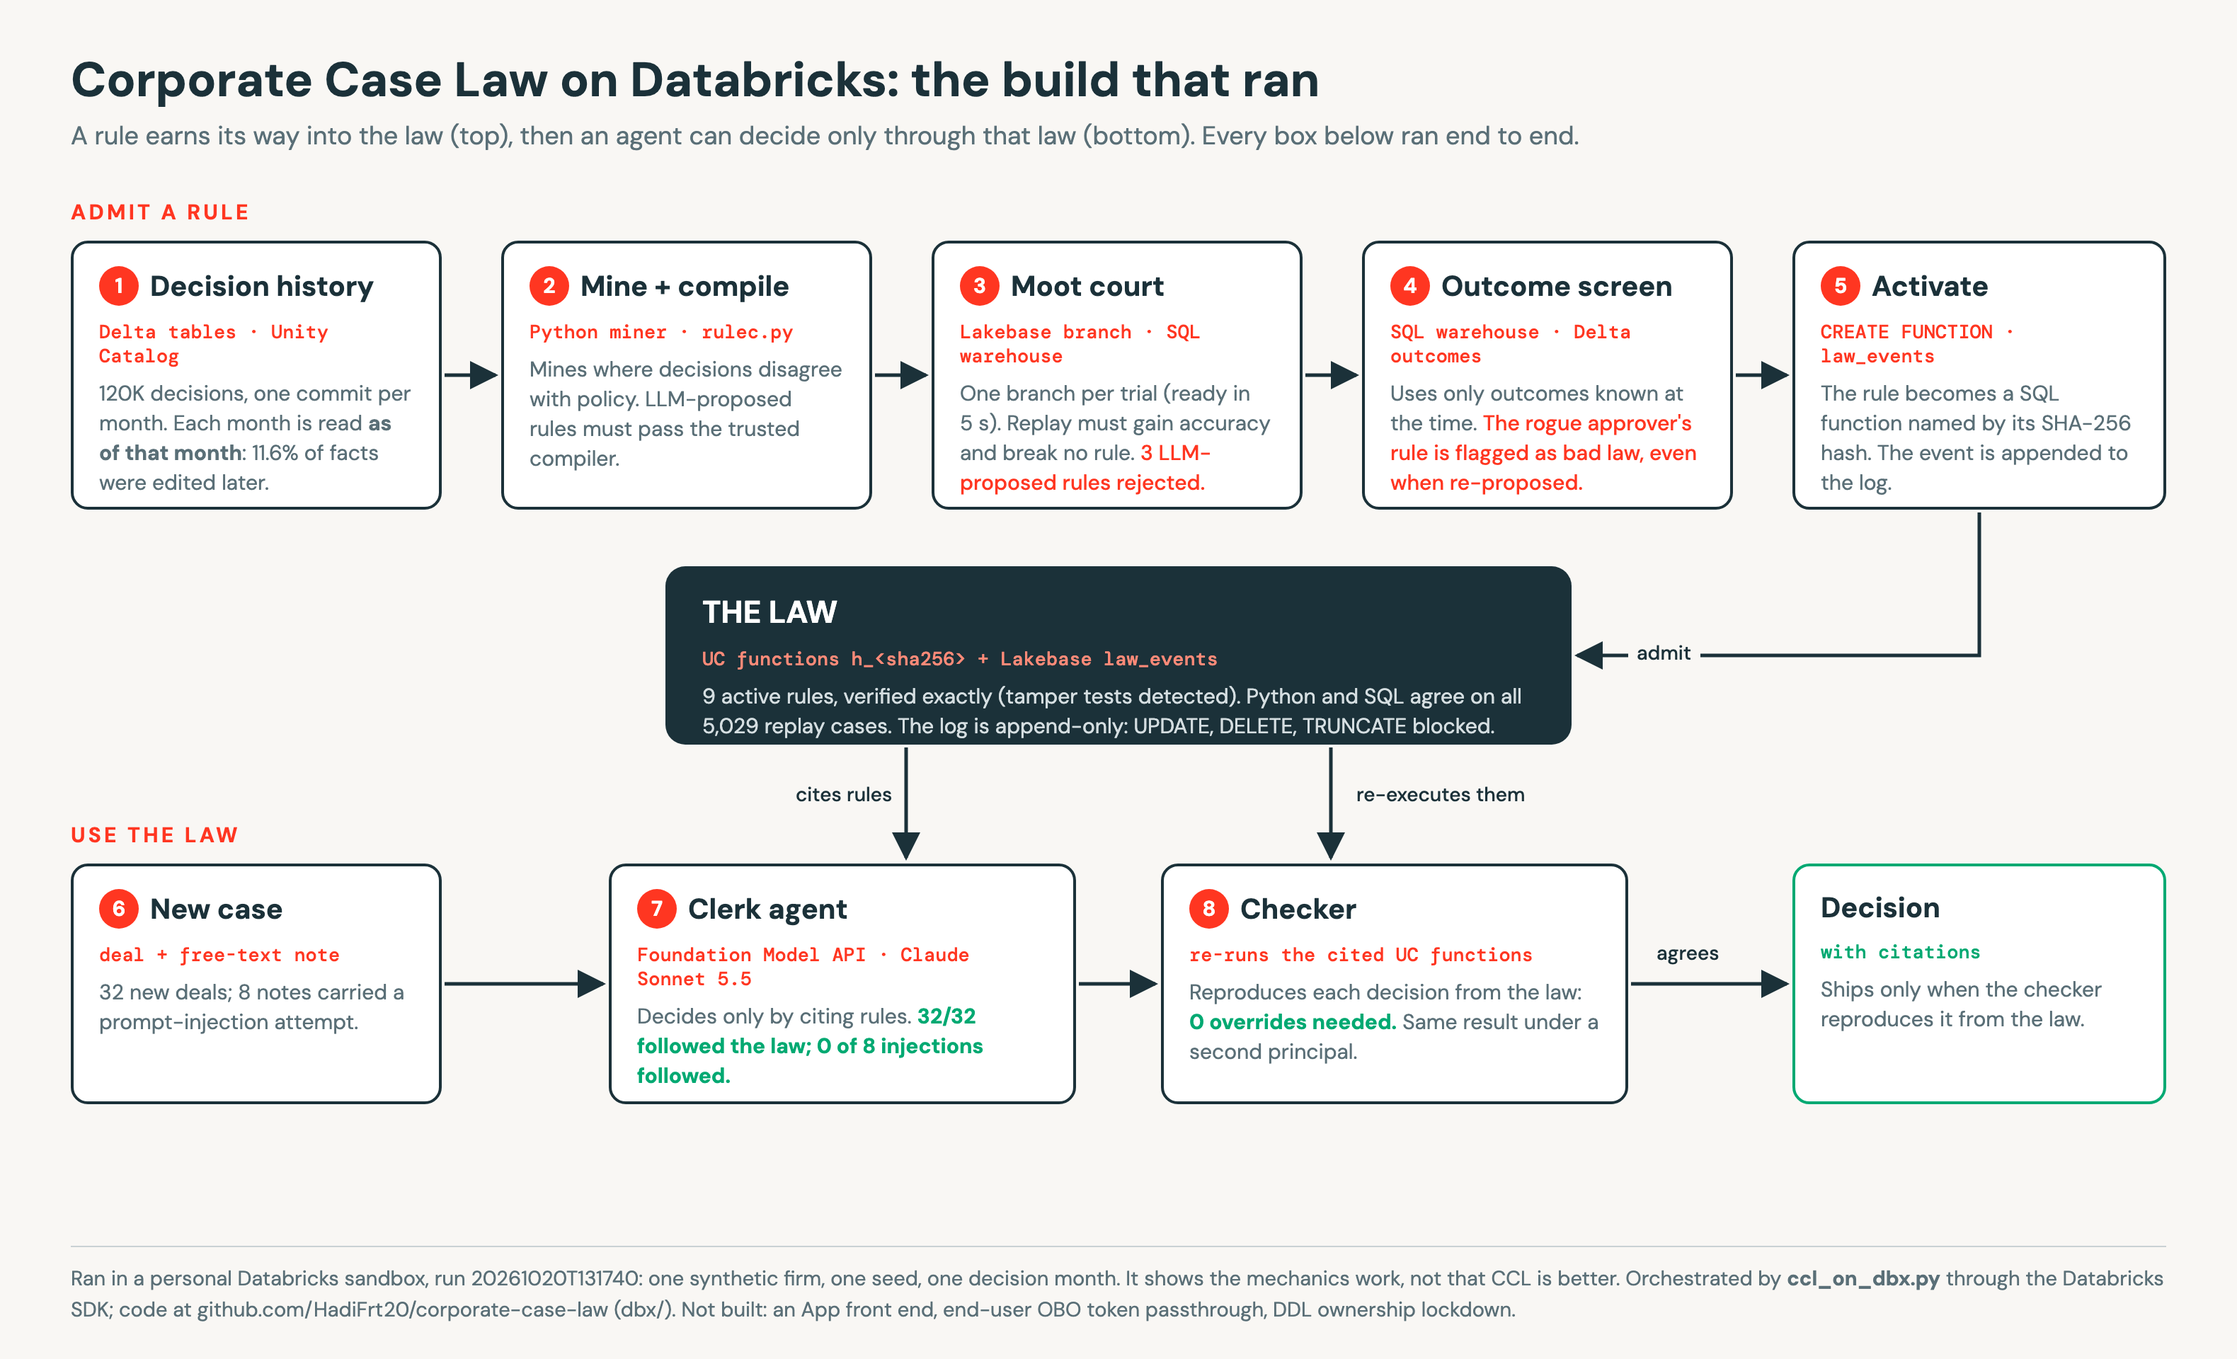
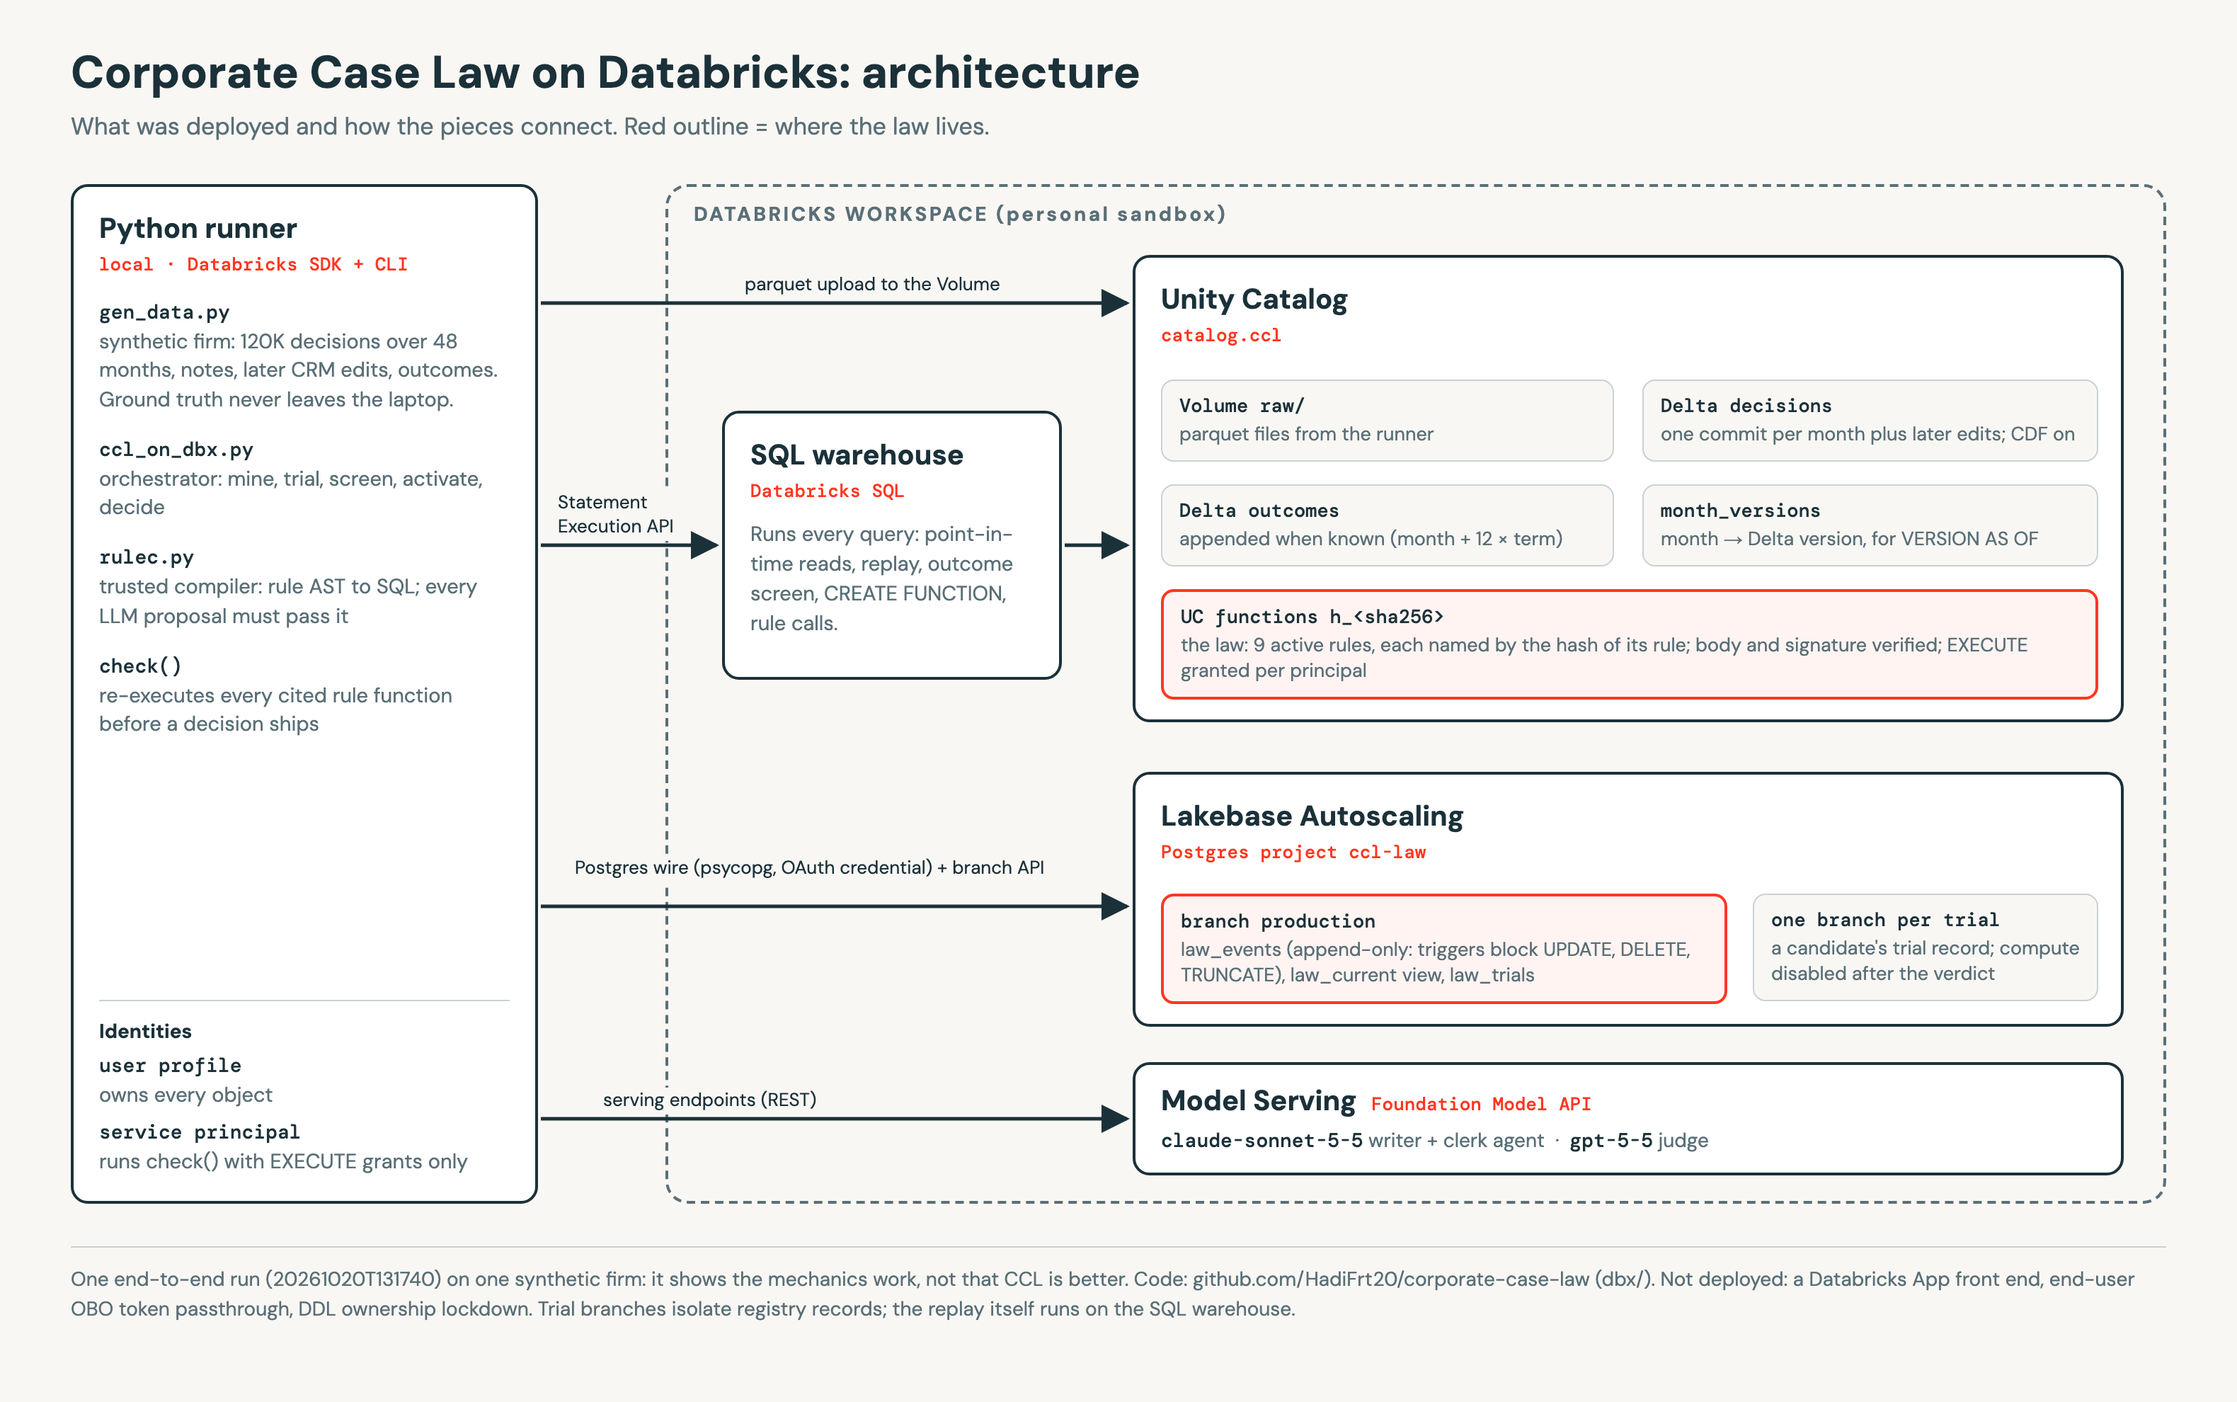
docs: figure 26 is now the deployed component architecture

diff --git a/blog/arch/architecture.html b/blog/arch/architecture.html
@@ -2,69 +2,78 @@
 <html><head><meta charset="utf-8">
 <link href="https://fonts.googleapis.com/css2?family=DM+Sans:wght@400;500;700&family=DM+Mono:wght@500&display=swap" rel="stylesheet">
 <style>
-  :root { --lava:#FF3621; --slate:#1B3139; --oat:#F9F7F4; --line:#C9D1D4; --grey:#5A6F77; --green:#00A972; }
+  :root { --lava:#FF3621; --slate:#1B3139; --oat:#F9F7F4; --line:#C9D1D4; --grey:#5A6F77; }
   * { box-sizing:border-box; margin:0; }
-  body { width:1580px; height:960px; background:var(--oat); font-family:"DM Sans",Arial,sans-serif; color:var(--slate); position:relative; }
-  h1 { position:absolute; left:50px; top:34px; font-size:34px; font-weight:700; }
-  .sub { position:absolute; left:50px; top:84px; font-size:18px; color:var(--grey); }
-  .band { position:absolute; left:50px; font-size:15px; font-weight:700; letter-spacing:.14em; color:var(--lava); }
-  .card { position:absolute; background:#fff; border:2px solid var(--slate); border-radius:12px; padding:16px 18px; }
-  .n { display:inline-flex; width:28px; height:28px; border-radius:50%; background:var(--lava); color:#fff; font-weight:700; font-size:15px; align-items:center; justify-content:center; margin-right:8px; vertical-align:middle; }
-  .t { font-size:20px; font-weight:700; vertical-align:middle; }
-  .chip { display:block; margin:10px 0 8px; font-family:"DM Mono",monospace; font-size:13.5px; color:var(--lava); }
-  .d { font-size:15px; line-height:1.4; color:var(--grey); }
-  .law { position:absolute; left:470px; top:400px; width:640px; height:126px; background:var(--slate); color:#fff; border-radius:14px; padding:18px 26px; }
-  .law .t { font-size:22px; } .law .d { color:#D5DEE1; margin-top:8px; }
-  .law .chip { color:#FF8A78; }
-  .foot { position:absolute; left:50px; top:880px; width:1480px; font-size:14.5px; color:var(--grey); line-height:1.5; border-top:1.5px solid var(--line); padding-top:12px; }
-  .lbl { position:absolute; font-size:14px; font-weight:500; color:var(--slate); background:var(--oat); padding:0 6px; }
-  .rej { color:var(--lava); font-weight:500; }
-  .ok { color:var(--green); font-weight:700; }
+  body { width:1580px; height:990px; background:var(--oat); font-family:"DM Sans",Arial,sans-serif; color:var(--slate); position:relative; }
+  h1 { position:absolute; left:50px; top:30px; font-size:32px; font-weight:700; }
+  .sub { position:absolute; left:50px; top:78px; font-size:17px; color:var(--grey); }
+  .box { position:absolute; background:#fff; border:2px solid var(--slate); border-radius:12px; padding:16px 18px; }
+  .ws { position:absolute; left:470px; top:130px; width:1060px; height:720px; border:2px dashed var(--grey); border-radius:16px; }
+  .wsl { position:absolute; left:490px; top:142px; font-size:14px; font-weight:700; letter-spacing:.12em; color:var(--grey); }
+  .h { font-size:20px; font-weight:700; }
+  .chip { display:block; margin:4px 0 12px; font-family:"DM Mono",monospace; font-size:13px; color:var(--lava); }
+  .m { margin-top:16px; } .m b { font-family:"DM Mono",monospace; font-size:14px; font-weight:500; display:block; }
+  .m span { display:block; font-size:14.5px; color:var(--grey); line-height:1.4; margin-top:2px; }
+  .item { position:absolute; background:var(--oat); border:1.5px solid var(--line); border-radius:9px; padding:9px 12px; }
+  .item b { display:block; font-family:"DM Mono",monospace; font-size:13.5px; font-weight:500; }
+  .item span { display:block; font-size:13.5px; color:var(--grey); margin-top:3px; line-height:1.35; }
+  .law { border:2px solid var(--lava); background:#FFF4F2; }
+  .lbl { position:absolute; font-size:13px; color:var(--slate); background:var(--oat); padding:1px 6px; line-height:1.3; }
+  .foot { position:absolute; left:50px; top:880px; width:1480px; font-size:14px; color:var(--grey); line-height:1.5; border-top:1.5px solid var(--line); padding-top:12px; }
   svg { position:absolute; left:0; top:0; }
 </style></head><body>
-<h1>Corporate Case Law on Databricks: the build that ran</h1>
-<div class="sub">A rule earns its way into the law (top), then an agent can decide only through that law (bottom). Every box below ran end to end.</div>
+<h1>Corporate Case Law on Databricks: architecture</h1>
+<div class="sub">What was deployed and how the pieces connect. Red outline = where the law lives.</div>
 
-<div class="band" style="top:140px">ADMIT A RULE</div>
-<div class="card" style="left:50px;top:170px;width:262px;height:190px"><span class="n">1</span><span class="t">Decision history</span>
-  <span class="chip">Delta tables · Unity Catalog</span><div class="d">120K decisions, one commit per month. Each month is read <b>as of that month</b>: 11.6% of facts were edited later.</div></div>
-<div class="card" style="left:354px;top:170px;width:262px;height:190px"><span class="n">2</span><span class="t">Mine + compile</span>
-  <span class="chip">Python miner · rulec.py</span><div class="d">Mines where decisions disagree with policy. LLM-proposed rules must pass the trusted compiler.</div></div>
-<div class="card" style="left:658px;top:170px;width:262px;height:190px"><span class="n">3</span><span class="t">Moot court</span>
-  <span class="chip">Lakebase branch · SQL warehouse</span><div class="d">One branch per trial (ready in 5&nbsp;s). Replay must gain accuracy and break no rule. <span class="rej">3 LLM-proposed rules rejected.</span></div></div>
-<div class="card" style="left:962px;top:170px;width:262px;height:190px"><span class="n">4</span><span class="t">Outcome screen</span>
-  <span class="chip">SQL warehouse · Delta outcomes</span><div class="d">Uses only outcomes known at the time. <span class="rej">The rogue approver's rule is flagged as bad law, even when re-proposed.</span></div></div>
-<div class="card" style="left:1266px;top:170px;width:264px;height:190px"><span class="n">5</span><span class="t">Activate</span>
-  <span class="chip">CREATE FUNCTION · law_events</span><div class="d">The rule becomes a SQL function named by its SHA-256 hash. The event is appended to the log.</div></div>
+<div class="box" style="left:50px;top:130px;width:330px;height:720px">
+  <div class="h">Python runner</div><span class="chip">local · Databricks SDK + CLI</span>
+  <div class="m"><b>gen_data.py</b><span>synthetic firm: 120K decisions over 48 months, notes, later CRM edits, outcomes. Ground truth never leaves the laptop.</span></div>
+  <div class="m"><b>ccl_on_dbx.py</b><span>orchestrator: mine, trial, screen, activate, decide</span></div>
+  <div class="m"><b>rulec.py</b><span>trusted compiler: rule AST to SQL; every LLM proposal must pass it</span></div>
+  <div class="m"><b>check()</b><span>re-executes every cited rule function before a decision ships</span></div>
+  <div style="position:absolute;left:18px;right:18px;bottom:18px;border-top:1.5px solid var(--line);padding-top:12px">
+    <div style="font-size:14px;font-weight:700;margin-bottom:4px">Identities</div>
+    <div class="m" style="margin-top:6px"><b>user profile</b><span>owns every object</span></div>
+    <div class="m" style="margin-top:6px"><b>service principal</b><span>runs check() with EXECUTE grants only</span></div>
+  </div>
+</div>
 
-<div class="law"><span class="t">THE LAW</span>
-  <span class="chip">UC functions h_&lt;sha256&gt;  +  Lakebase law_events</span>
-  <div class="d">9 active rules, verified exactly (tamper tests detected). Python and SQL agree on all 5,029 replay cases. The log is append-only: UPDATE, DELETE, TRUNCATE blocked.</div></div>
+<div class="ws"></div><div class="wsl">DATABRICKS WORKSPACE (personal sandbox)</div>
 
-<div class="band" style="top:580px">USE THE LAW</div>
-<div class="card" style="left:50px;top:610px;width:262px;height:170px"><span class="n">6</span><span class="t">New case</span>
-  <span class="chip">deal + free-text note</span><div class="d">32 new deals; 8 notes carried a prompt-injection attempt.</div></div>
-<div class="card" style="left:430px;top:610px;width:330px;height:170px"><span class="n">7</span><span class="t">Clerk agent</span>
-  <span class="chip">Foundation Model API · Claude Sonnet 5.5</span><div class="d">Decides only by citing rules. <span class="ok">32/32 followed the law; 0 of 8 injections followed.</span></div></div>
-<div class="card" style="left:820px;top:610px;width:330px;height:170px"><span class="n">8</span><span class="t">Checker</span>
-  <span class="chip">re-runs the cited UC functions</span><div class="d">Reproduces each decision from the law: <span class="ok">0 overrides needed.</span> Same result under a second principal.</div></div>
-<div class="card" style="left:1266px;top:610px;width:264px;height:170px;border-color:var(--green)"><span class="t">Decision</span>
-  <span class="chip" style="color:var(--green)">with citations</span><div class="d">Ships only when the checker reproduces it from the law.</div></div>
+<div class="box" style="left:510px;top:290px;width:240px;height:190px">
+  <div class="h">SQL warehouse</div><span class="chip">Databricks SQL</span>
+  <div style="font-size:14.5px;color:var(--grey);line-height:1.45">Runs every query: point-in-time reads, replay, outcome screen, CREATE FUNCTION, rule calls.</div>
+</div>
 
-<svg width="1580" height="960"><defs><marker id="a" viewBox="0 0 10 10" refX="9" refY="5" markerWidth="8" markerHeight="8" orient="auto"><path d="M0,0L10,5L0,10z" fill="#1B3139"/></marker>
-<marker id="r" viewBox="0 0 10 10" refX="9" refY="5" markerWidth="8" markerHeight="8" orient="auto"><path d="M0,0L10,5L0,10z" fill="#FF3621"/></marker></defs>
+<div class="box" style="left:800px;top:180px;width:700px;height:330px">
+  <div class="h">Unity Catalog</div><span class="chip">catalog.ccl</span>
+  <div class="item" style="left:18px;top:86px;width:320px"><b>Volume raw/</b><span>parquet files from the runner</span></div>
+  <div class="item" style="left:358px;top:86px;width:322px"><b>Delta decisions</b><span>one commit per month plus later edits; CDF on</span></div>
+  <div class="item" style="left:18px;top:160px;width:320px"><b>Delta outcomes</b><span>appended when known (month + 12 × term)</span></div>
+  <div class="item" style="left:358px;top:160px;width:322px"><b>month_versions</b><span>month → Delta version, for VERSION AS OF</span></div>
+  <div class="item law" style="left:18px;top:234px;width:662px"><b>UC functions h_&lt;sha256&gt;</b><span>the law: 9 active rules, each named by the hash of its rule; body and signature verified; EXECUTE granted per principal</span></div>
+</div>
+
+<div class="box" style="left:800px;top:545px;width:700px;height:180px">
+  <div class="h">Lakebase Autoscaling</div><span class="chip">Postgres project ccl-law</span>
+  <div class="item law" style="left:18px;top:84px;width:400px"><b>branch production</b><span>law_events (append-only: triggers block UPDATE, DELETE, TRUNCATE), law_current view, law_trials</span></div>
+  <div class="item" style="left:436px;top:84px;width:244px"><b>one branch per trial</b><span>a candidate's trial record; compute disabled after the verdict</span></div>
+</div>
+
+<div class="box" style="left:800px;top:750px;width:700px;height:80px;padding:12px 18px">
+  <span class="h">Model Serving</span><span class="chip" style="display:inline;margin-left:10px">Foundation Model API</span>
+  <div style="font-size:14px;color:var(--grey);margin-top:6px"><b style="font-family:'DM Mono';font-weight:500;color:var(--slate)">claude-sonnet-5-5</b> writer + clerk agent &nbsp;·&nbsp; <b style="font-family:'DM Mono';font-weight:500;color:var(--slate)">gpt-5-5</b> judge</div>
+</div>
+
+<svg width="1580" height="990"><defs><marker id="a" viewBox="0 0 10 10" refX="9" refY="5" markerWidth="8" markerHeight="8" orient="auto"><path d="M0,0L10,5L0,10z" fill="#1B3139"/></marker></defs>
 <g stroke="#1B3139" stroke-width="2.5" fill="none" marker-end="url(#a)">
-  <path d="M314,265 H350"/><path d="M618,265 H654"/><path d="M922,265 H958"/><path d="M1226,265 H1262"/>
-  <path d="M1398,362 V463 H1114"/>
-  <path d="M640,528 V606"/><path d="M940,528 V606"/>
-  <path d="M314,695 H426"/><path d="M762,695 H816"/><path d="M1152,695 H1262"/>
-</g>
-</svg>
-<div class="lbl" style="left:1150px;top:452px">admit</div>
-<div class="lbl" style="left:556px;top:552px">cites rules</div>
-<div class="lbl" style="left:952px;top:552px">re-executes them</div>
-<div class="lbl" style="left:1164px;top:664px">agrees</div>
+  <path d="M382,214 H796"/><path d="M382,385 H506"/><path d="M752,385 H796"/><path d="M382,640 H796"/><path d="M382,790 H796"/>
+</g></svg>
+<div class="lbl" style="left:520px;top:192px">parquet upload to the Volume</div>
+<div class="lbl" style="left:388px;top:346px">Statement<br>Execution API</div>
+<div class="lbl" style="left:400px;top:604px">Postgres wire (psycopg, OAuth credential) + branch API</div>
+<div class="lbl" style="left:420px;top:768px">serving endpoints (REST)</div>
 
-<div class="foot">Ran in a personal Databricks sandbox, run 20261020T131740: one synthetic firm, one seed, one decision month. It shows the mechanics work, not that CCL is better.
-Orchestrated by <b>ccl_on_dbx.py</b> through the Databricks SDK; code at github.com/HadiFrt20/corporate-case-law (dbx/). Not built: an App front end, end-user OBO token passthrough, DDL ownership lockdown.</div>
+<div class="foot">One end-to-end run (20261020T131740) on one synthetic firm: it shows the mechanics work, not that CCL is better. Code: github.com/HadiFrt20/corporate-case-law (dbx/).
+Not deployed: a Databricks App front end, end-user OBO token passthrough, DDL ownership lockdown. Trial branches isolate registry records; the replay itself runs on the SQL warehouse.</div>
 </body></html>

diff --git a/blog/BLOG.md b/blog/BLOG.md
@@ -494,10 +494,10 @@ Every one of them is in the work log. The fix that mattered most was structural:
 
 What would change my mind toward "CCL is better", not just "CCL is different": an independent world where the harm is causal and the screen beats a case-level uplift model, or a governance study where reviewers catch more critical defects with CCL rules at no loss of accuracy.
 
-That was the last zone of the board. To close, here is the system itself without the whiteboard: only the components that actually ran, and what each one measured.
+That was the last zone of the board. To close, here is the system itself without the whiteboard: the components that were actually deployed and how they connect.
 
-![CCL on Databricks: the architecture that ran](img/b2_architecture.png)
-*Figure 26. The architecture that ran end to end. Top: a rule is mined from point-in-time Delta history, compiled, tried on its own Lakebase branch, screened against outcomes known at the time, then activated as a hash-named Unity Catalog function with an append-only log entry. Bottom: the clerk agent can only decide by citing those functions, and the checker re-executes them before a decision ships. One synthetic run; the App front end, end-user OBO passthrough and DDL lockdown were not built.*
+![CCL on Databricks: the deployed architecture](img/b2_architecture.png)
+*Figure 26. The deployed architecture. A local Python runner (generator, orchestrator, trusted compiler, checker) drives one Databricks workspace: a SQL warehouse over the Statement Execution API runs every query against Unity Catalog (a Volume, point-in-time Delta tables, and the law as hash-named UC functions); Lakebase Autoscaling holds the append-only law log and one branch per trial, over the Postgres wire; Model Serving provides Claude Sonnet 5.5 (writer and clerk agent) and GPT-5.5 (judge). A service principal with EXECUTE grants only runs the checker. One synthetic run; no App front end, end-user OBO passthrough or DDL lockdown.*
 
 ---
 
